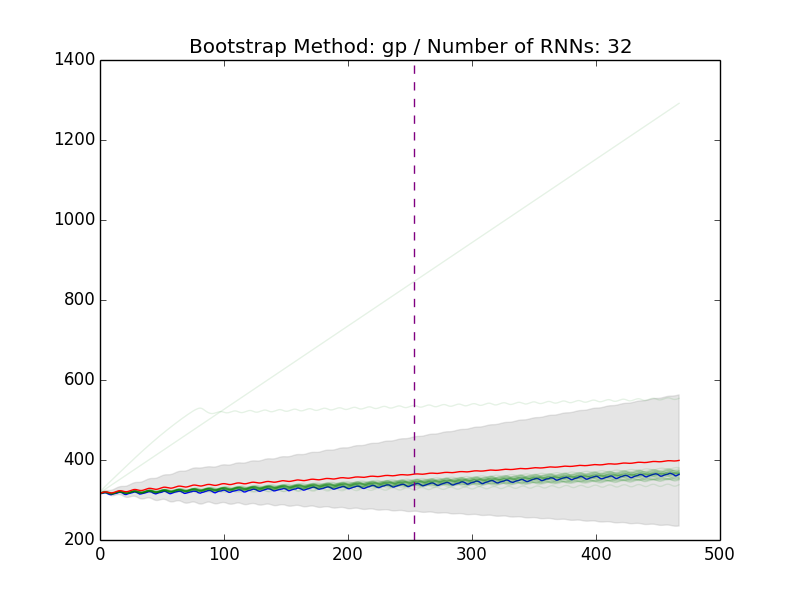
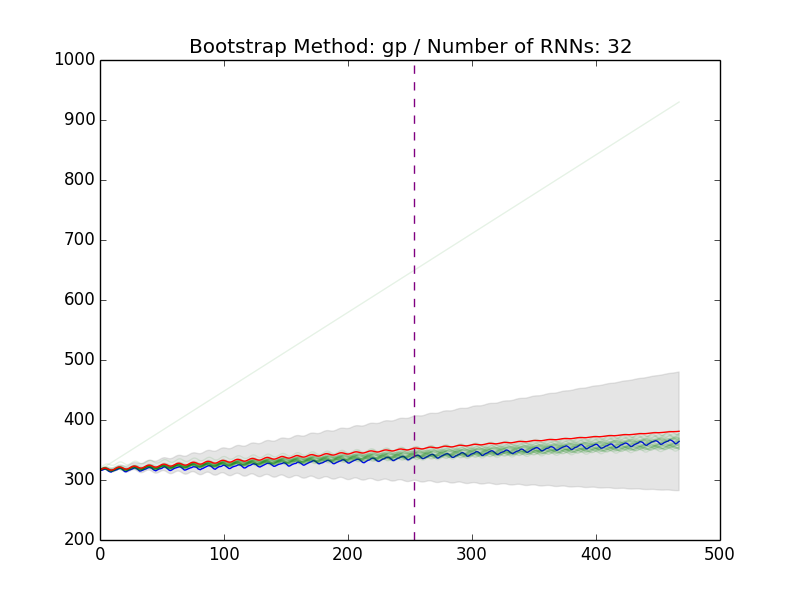
Experimentation with BNNs (not working so far...)

diff --git a/BNN_experiments/edward_shadi/bnn_test.py b/BNN_experiments/edward_shadi/bnn_test.py
@@ -1,0 +1,132 @@
+"""
+Code below modifies implementation given in:
+http://nbviewer.jupyter.org/github/blei-lab/edward/blob/master/notebooks/getting_started.ipynb
+"""
+
+
+import edward as ed
+import matplotlib.pyplot as plt
+import numpy as np
+import pandas as pd
+import tensorflow as tf
+
+from edward.models import Normal
+
+
+def build_co2_dataset(window_size=20):
+    ex_dataset = pd.read_csv('../../data/mauna-loa-atmospheric-co2.csv',
+                             header=None)
+    ex_dataset.columns = ['CO2Concentration', 'Time']
+
+    x = []
+    y = []
+
+    for idx in range(0, len(ex_dataset) - window_size, 1):
+        x.append(ex_dataset['CO2Concentration'][idx:idx + window_size])
+        y.append(ex_dataset['CO2Concentration'][idx + window_size])
+
+    x = np.array(x, dtype=np.float32) # .reshape((-1, 1))
+    y = np.array(y, dtype=np.float32)
+    return x, y
+
+
+def build_toy_dataset(N=50, noise_std=0.1):
+    x = np.linspace(-3, 3, num=N)
+    y = np.cos(x) + np.random.normal(0, noise_std, size=N)
+    x = x.astype(np.float32).reshape((N, 1))
+    y = y.astype(np.float32)
+    return x, y
+
+
+def neural_network(x, W_0, W_1, W_2, b_0, b_1, b_2):
+    h = tf.tanh(tf.matmul(x, W_0) + b_0)
+    h = tf.tanh(tf.matmul(h, W_1) + b_1)
+    h = tf.matmul(h, W_2) + b_2
+    return tf.reshape(h, [-1])
+
+
+D = 20   # number of features
+
+x_train, y_train = build_co2_dataset(D)
+
+print x_train
+print len(x_train)
+print x_train.shape
+
+W_0 = Normal(loc=tf.zeros([D, D]), scale=tf.ones([D, D]))
+W_1 = Normal(loc=tf.zeros([D, D]), scale=tf.ones([D, D]))
+W_2 = Normal(loc=tf.zeros([D, 1]), scale=tf.ones([D, 1]))
+b_0 = Normal(loc=tf.zeros(D), scale=tf.ones(D))
+b_1 = Normal(loc=tf.zeros(D), scale=tf.ones(D))
+b_2 = Normal(loc=tf.zeros(1), scale=tf.ones(1))
+
+x = x_train
+y = Normal(loc=neural_network(x, W_0, W_1, W_2, b_0, b_1, b_2),
+           scale=0.1 * tf.ones(len(x)))
+
+qW_0 = Normal(loc=tf.Variable(tf.random_normal([D, D])),
+              scale=tf.nn.softplus(tf.Variable(tf.random_normal([D, D]))))
+qW_1 = Normal(loc=tf.Variable(tf.random_normal([D, D])),
+              scale=tf.nn.softplus(tf.Variable(tf.random_normal([D, D]))))
+qW_2 = Normal(loc=tf.Variable(tf.random_normal([D, 1])),
+              scale=tf.nn.softplus(tf.Variable(tf.random_normal([D, 1]))))
+qb_0 = Normal(loc=tf.Variable(tf.random_normal([D])),
+              scale=tf.nn.softplus(tf.Variable(tf.random_normal([D]))))
+qb_1 = Normal(loc=tf.Variable(tf.random_normal([D])),
+              scale=tf.nn.softplus(tf.Variable(tf.random_normal([D]))))
+qb_2 = Normal(loc=tf.Variable(tf.random_normal([1])),
+              scale=tf.nn.softplus(tf.Variable(tf.random_normal([1]))))
+
+# Sample functions from variational model to visualize fits.
+rs = np.random.RandomState(0)
+#inputs = np.linspace(-5, 5, num=400, dtype=np.float32)
+#x = tf.expand_dims(inputs, D)
+print x.shape
+mus = tf.stack(
+    [neural_network(x_train, qW_0.sample(), qW_1.sample(), qW_2.sample(),
+                    qb_0.sample(), qb_1.sample(), qb_2.sample())
+     for _ in range(10)])
+
+sess = ed.get_session()
+
+print y.eval()
+tf.global_variables_initializer().run()
+outputs = mus.eval()
+
+fig = plt.figure(figsize=(10, 6))
+ax = fig.add_subplot(111)
+ax.set_title("Iteration: 0")
+ax.plot(x_train, y_train, 'ks', alpha=0.5, label='(x, y)')
+ax.plot(list(range(len(outputs[0].T))), outputs[0].T, 'r', lw=2, alpha=0.5, label='prior draws')
+ax.plot(list(range(len(outputs[0].T))), outputs[1:].T, 'r', lw=2, alpha=0.5)
+#ax.legend()
+plt.show()
+
+inference = ed.KLqp({W_0: qW_0, b_0: qb_0,
+                     W_1: qW_1, b_1: qb_1,
+                     W_2: qW_2, b_2: qb_2}, data={y: y_train})
+inference.run(n_iter=5000)
+
+print '------------'
+print 'Y eval......'
+print y.eval()
+print '------------'
+
+# SECOND VISUALIZATION (posterior)
+
+outputs = mus.eval()
+
+print outputs[1:].T
+print '------------------------'
+print outputs[0].T
+print '------------------------'
+print y_train
+
+fig = plt.figure(figsize=(10, 6))
+ax = fig.add_subplot(111)
+ax.set_title("Iteration: 1000")
+ax.plot(x_train, y_train, 'ks', alpha=0.5, label='(x, y)')
+ax.plot(list(range(len(outputs[0].T))), outputs[0].T, 'r', lw=2, alpha=0.5, label='posterior draws')
+ax.plot(list(range(len(outputs[0].T))), outputs[1:].T, 'r', lw=2, alpha=0.5)
+#ax.legend()
+plt.show()

diff --git a/RNN_experiments/keras_shadi/rnn_experiment.py b/RNN_experiments/keras_shadi/rnn_experiment.py
@@ -81,6 +81,8 @@ def train_model(ith_dataset, idx):
 
     y_train_pred = lstm_model.predict(supervised.values[:, 0].reshape(-1, 1, 1), batch_size=1)
 
+    lstm_model.reset_states()
+
     mse = mean_squared_error(supervised.values[:, -1], y_train_pred)
 
     with open("./model_performance/" + str(idx) + ".pkl", "wb") as lf:
@@ -93,9 +95,9 @@ def make_model_predictions(train, all_y, init_val, idx):
 
     model = load_model("./models/" + str(idx) + ".kmodel")
     # forecast the entire training dataset to build up state for forecasting
-    train_reshaped = train[:, 0].reshape(len(train), 1, 1)
+    # train_reshaped = train[:, 0].reshape(len(train), 1, 1)
 
-    model.predict(train_reshaped, batch_size=1)
+    # model.predict(train_reshaped, batch_size=1)
 
     # walk-forward validation on the test data
     predictions = []
@@ -198,7 +200,7 @@ def main(retrain=True, bootstrap_method='gp', n_rnns=10, plot_preds=True, filter
     best_models = []
 
     for midx in mod_pf.keys():
-        if np.sqrt(mod_pf[midx]) < .2:
+        if np.sqrt(mod_pf[midx]) < .07:
             print np.sqrt(mod_pf[midx])
             best_models.append(midx)
         elif not filter_bad_models:
@@ -208,7 +210,7 @@ def main(retrain=True, bootstrap_method='gp', n_rnns=10, plot_preds=True, filter
         raise Exception("None of the models achieved the minimum threshold for the MSE metric.")
 
     Parallel(n_jobs=20, verbose=10)(delayed(make_model_predictions)(train,
-                                                                    supervised_values, # test,
+                                                                    supervised_values,  # test,
                                                                     ex_dataset['CO2Concentration'][0], # ex_dataset['CO2Concentration'][len(test)+1],
                                                                     idx)
                                     for idx in best_models)
@@ -241,8 +243,8 @@ def main(retrain=True, bootstrap_method='gp', n_rnns=10, plot_preds=True, filter
             plt.plot(pred, color="green", alpha=.1)
     plt.plot(rnn_means, color="red")
     plt.fill_between(list(range(len(rnn_means))),
-                     rnn_means - rnn_conf,
-                     rnn_means + rnn_conf,
+                     rnn_means - 2 * rnn_conf,
+                     rnn_means + 2 * rnn_conf,
                      color="gray", alpha=0.2)
 
     plt.axvline(len(train_data), color="purple", linestyle='--')
@@ -254,5 +256,5 @@ def main(retrain=True, bootstrap_method='gp', n_rnns=10, plot_preds=True, filter
 
 
 if __name__ == "__main__":
-    main(retrain=True, bootstrap_method='gp',
-         n_rnns=100, plot_preds=True, filter_bad_models=True)
+    main(retrain=False, bootstrap_method='gp',
+         n_rnns=50, plot_preds=True, filter_bad_models=True)
